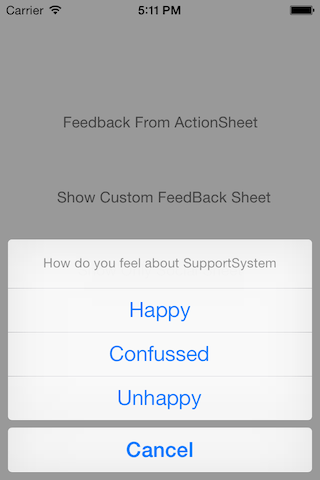
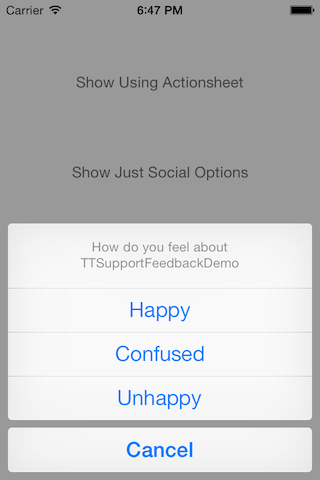
update demo and screenshot

diff --git a/TTSupportFeedbackDemo/ViewController.m b/TTSupportFeedbackDemo/ViewController.m
@@ -56,7 +56,7 @@
 	NSString *sheetTitle = NSLocalizedStringFromTable(@"How do you feel about", @"TTSupportFeedBack", @"How do you feel about (App Name - auto inserted)");
 	NSString *actionSheetTitle = [NSString stringWithFormat:@"%@ %@",sheetTitle, [[[NSBundle mainBundle] infoDictionary] objectForKey:@"CFBundleName"]];
 	NSString *happy = NSLocalizedStringFromTable(@"Happy", @"TTSupportFeedBack", @"Happy");
-	NSString *confussed = NSLocalizedStringFromTable(@"Confussed", @"TTSupportFeedBack", @"Confussed");
+	NSString *confussed = NSLocalizedStringFromTable(@"Confused", @"TTSupportFeedBack", @"Confused");
 	NSString *unhappy = NSLocalizedStringFromTable(@"Unhappy", @"TTSupportFeedBack", @"Unhappy");
 	NSString *cancelTitle = NSLocalizedStringFromTable(@"Cancel", @"TTSupportFeedBack", @"Cancel");
 	UIActionSheet *actionSheet = [[UIActionSheet alloc]
